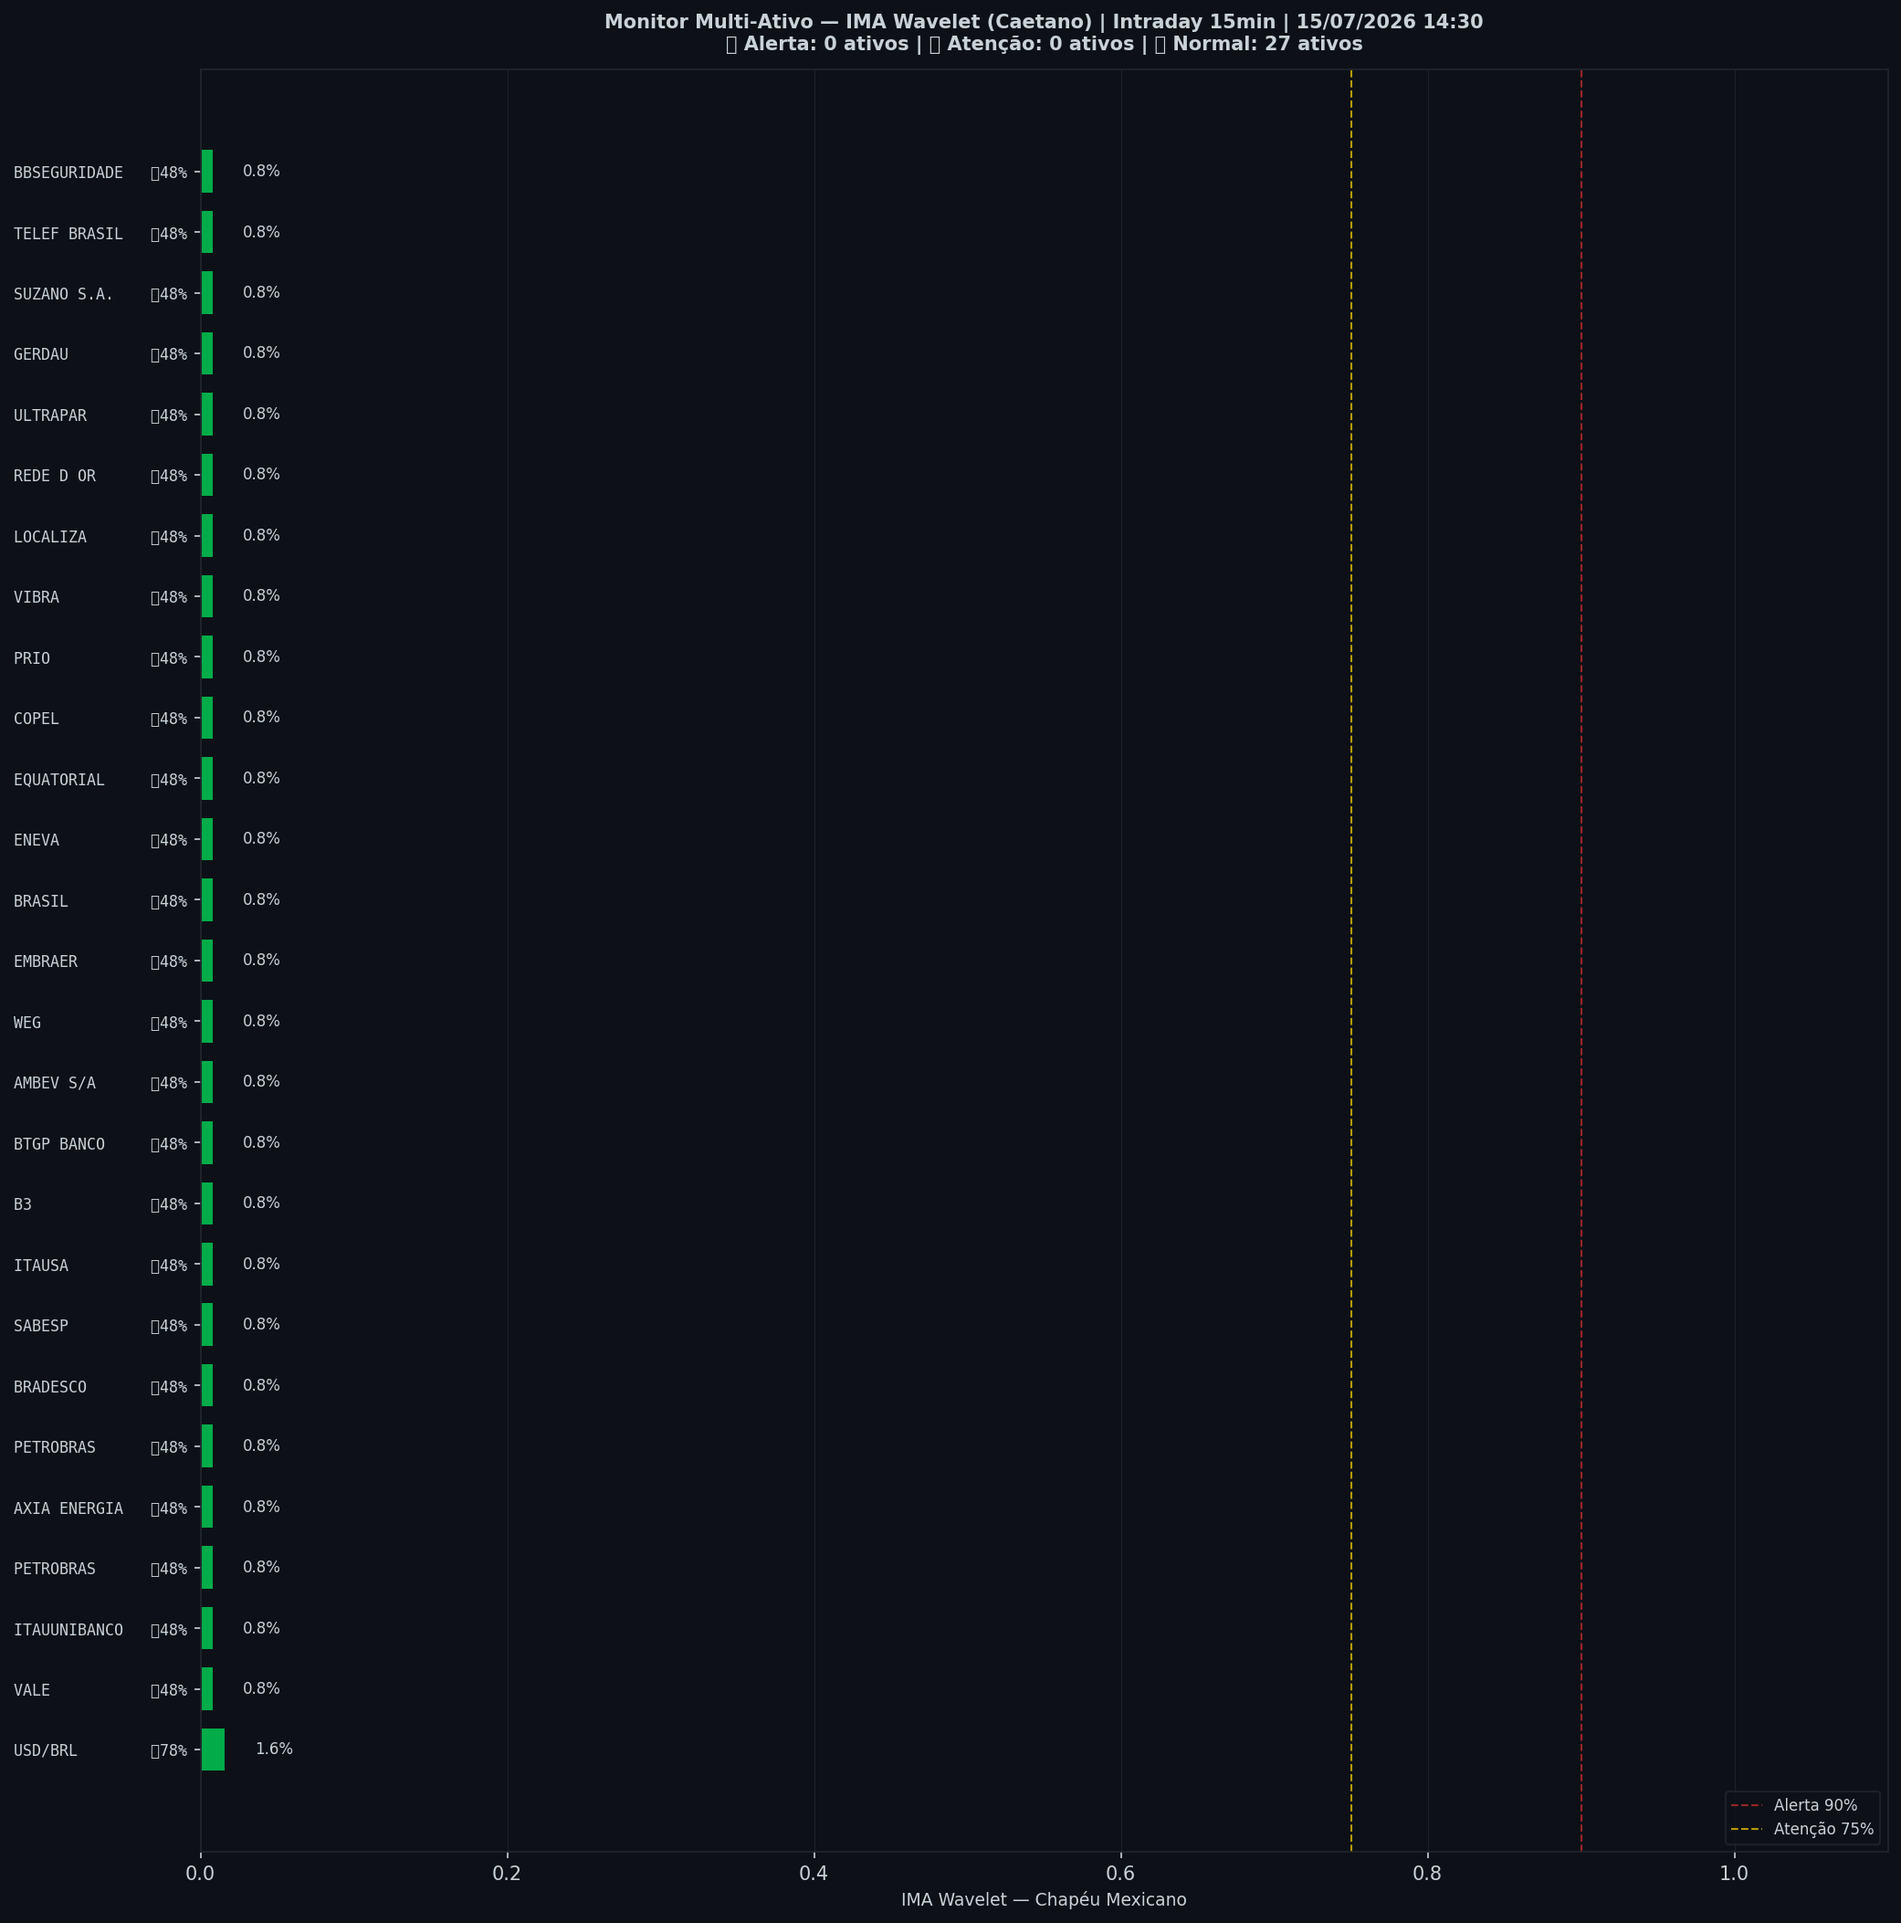
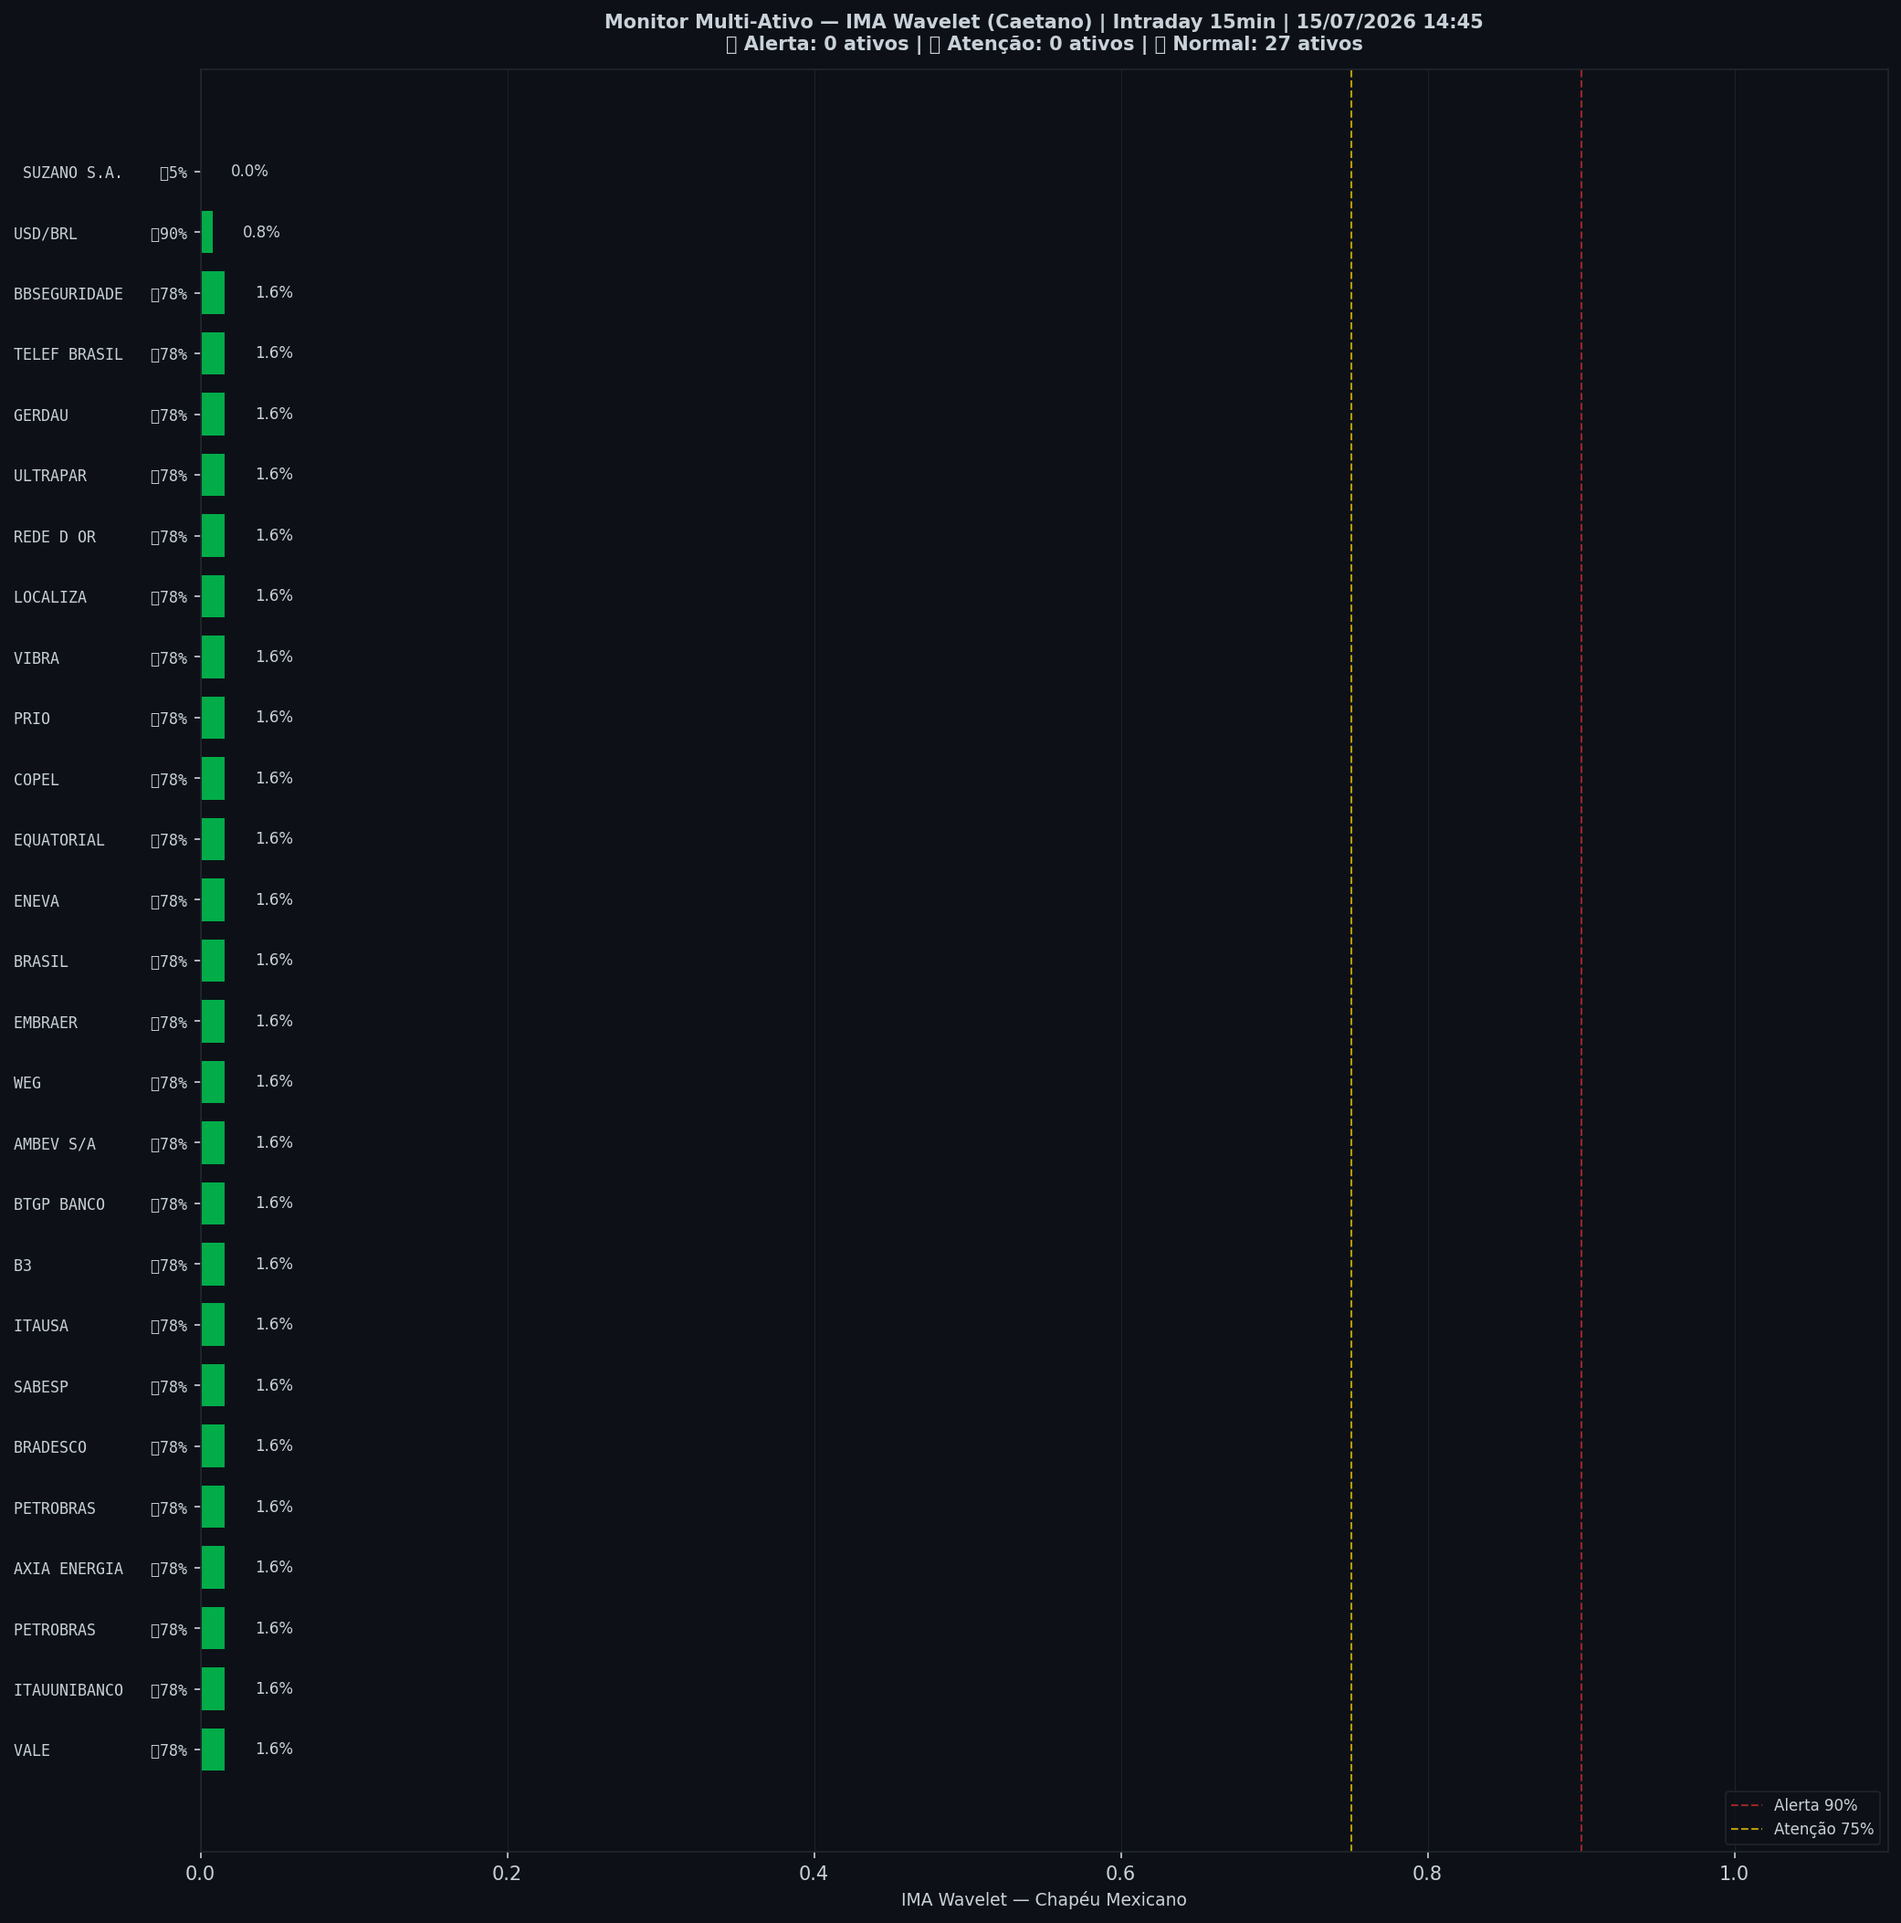
🤖 Auto: Sinal 15/07/2026 14:45

Changed region(s): [[0.0937, 0.1543, 0.1249, 0.8951], [0.0312, 0.8333, 0.0624, 0.8642], [0.0312, 0.0617, 0.0624, 0.0926]]

diff --git a/content/intraday/2026-07-15.md b/content/intraday/2026-07-15.md
@@ -1,20 +1,20 @@
 ---
-title: "🟢 Intraday 15/07/2026 13:45 BRT — VERDE"
+title: "🟢 Intraday 15/07/2026 14:00 BRT — VERDE"
 date: 2026-07-15
 tags: [intraday]
 ---
 
-> [!success] 🟢 **VERDE** — Risco 34% · ▼ -2 p.p. vs leitura anterior
-> `███████░░░░░░░░░░░░░`
+> [!success] 🟢 **VERDE** — Risco 32% · ▼ -2 p.p. vs leitura anterior
+> `██████░░░░░░░░░░░░░░`
 > Mercado sem sinais relevantes de estresse.
 
 
 | Indicador | Valor |
 |---|---|
-| 🔴 ζ Crash — severidade da queda em curso | **34%** |
+| 🔴 ζ Crash — severidade da queda em curso | **32%** |
 | 🔵 ζ Entrada — estrutura de fundo | 0% |
 | 🫧 LPPL DS-Confidence | 0% |
-| 📊 Ibovespa | 175.349 pts |
+| 📊 Ibovespa | 175.443 pts |
 
 ![Gráfico do sinal](../graficos/sinal_intraday.png)
 
@@ -22,6 +22,7 @@ tags: [intraday]
 
 | Data | Zona | Risco | IMA Crash | Entrada | LPPL |
 |---|---|---|---|---|---|
+| 2026-07-15 14:00 | 🟢 VERDE | **32%** | 32% | 0% | 0% |
 | 2026-07-15 13:45 | 🟢 VERDE | **34%** | 34% | 0% | 0% |
 | 2026-07-15 13:30 | 🟢 VERDE | **35%** | 35% | 0% | 0% |
 | 2026-07-15 13:15 | 🟢 VERDE | **39%** | 39% | 0% | 0% |
@@ -51,7 +52,6 @@ tags: [intraday]
 | 2026-07-14 14:15 | 🟢 VERDE | **1%** | 1% | 2% | 0% |
 | 2026-07-14 14:00 | 🟢 VERDE | **0%** | 0% | 5% | 0% |
 | 2026-07-14 13:45 | 🟢 VERDE | **0%** | 0% | 8% | 0% |
-| 2026-07-14 13:30 | 🟢 VERDE | **0%** | 0% | 12% | 0% |
 
 ## Monitor Multi-Ativo
 
@@ -59,37 +59,37 @@ tags: [intraday]
 
 | Zona | Ativo | Setor | IMA Crash | IMA Entrada |
 |---|---|---|---|---|
-| 🟢 | **USD/BRL** | Câmbio | 1.6% | 78.1% |
-| 🟢 | **VALE** | Mineração | 0.8% | 48.4% |
-| 🟢 | **ITAUUNIBANCO** | Financeiro | 0.8% | 48.4% |
-| 🟢 | **PETROBRAS** | Petróleo | 0.8% | 48.4% |
-| 🟢 | **AXIA ENERGIA** | Energia | 0.8% | 48.4% |
-| 🟢 | **PETROBRAS** | Petróleo | 0.8% | 48.4% |
-| 🟢 | **BRADESCO** | Financeiro | 0.8% | 48.4% |
-| 🟢 | **SABESP** | Saneamento | 0.8% | 48.4% |
-| 🟢 | **ITAUSA** | Financeiro | 0.8% | 48.4% |
-| 🟢 | **B3** | Financeiro | 0.8% | 48.4% |
-| 🟢 | **BTGP BANCO** | Financeiro | 0.8% | 48.4% |
-| 🟢 | **AMBEV S/A** | Consumo | 0.8% | 48.4% |
-| 🟢 | **WEG** | Industrial | 0.8% | 48.4% |
-| 🟢 | **EMBRAER** | Outros | 0.8% | 48.4% |
-| 🟢 | **BRASIL** | Financeiro | 0.8% | 48.4% |
-| 🟢 | **ENEVA** | Energia | 0.8% | 48.4% |
-| 🟢 | **EQUATORIAL** | Energia | 0.8% | 48.4% |
-| 🟢 | **COPEL** | Energia | 0.8% | 48.4% |
-| 🟢 | **PRIO** | Petróleo | 0.8% | 48.4% |
-| 🟢 | **VIBRA** | Energia | 0.8% | 48.4% |
-| 🟢 | **LOCALIZA** | Aluguel | 0.8% | 48.4% |
-| 🟢 | **REDE D OR** | Saúde | 0.8% | 48.4% |
-| 🟢 | **ULTRAPAR** | Outros | 0.8% | 48.4% |
-| 🟢 | **GERDAU** | Siderurgia | 0.8% | 48.4% |
-| 🟢 | **SUZANO S.A.** | Papel/Celulose | 0.8% | 48.4% |
-| 🟢 | **TELEF BRASIL** | Outros | 0.8% | 48.4% |
-| 🟢 | **BBSEGURIDADE** | Financeiro | 0.8% | 48.4% |
+| 🟢 | **VALE** | Mineração | 1.6% | 78.1% |
+| 🟢 | **ITAUUNIBANCO** | Financeiro | 1.6% | 78.1% |
+| 🟢 | **PETROBRAS** | Petróleo | 1.6% | 78.1% |
+| 🟢 | **AXIA ENERGIA** | Energia | 1.6% | 78.1% |
+| 🟢 | **PETROBRAS** | Petróleo | 1.6% | 78.1% |
+| 🟢 | **BRADESCO** | Financeiro | 1.6% | 78.1% |
+| 🟢 | **SABESP** | Saneamento | 1.6% | 78.1% |
+| 🟢 | **ITAUSA** | Financeiro | 1.6% | 78.1% |
+| 🟢 | **B3** | Financeiro | 1.6% | 78.1% |
+| 🟢 | **BTGP BANCO** | Financeiro | 1.6% | 78.1% |
+| 🟢 | **AMBEV S/A** | Consumo | 1.6% | 78.1% |
+| 🟢 | **WEG** | Industrial | 1.6% | 78.1% |
+| 🟢 | **EMBRAER** | Outros | 1.6% | 78.1% |
+| 🟢 | **BRASIL** | Financeiro | 1.6% | 78.1% |
+| 🟢 | **ENEVA** | Energia | 1.6% | 78.1% |
+| 🟢 | **EQUATORIAL** | Energia | 1.6% | 78.1% |
+| 🟢 | **COPEL** | Energia | 1.6% | 78.1% |
+| 🟢 | **PRIO** | Petróleo | 1.6% | 78.1% |
+| 🟢 | **VIBRA** | Energia | 1.6% | 78.1% |
+| 🟢 | **LOCALIZA** | Aluguel | 1.6% | 78.1% |
+| 🟢 | **REDE D OR** | Saúde | 1.6% | 78.1% |
+| 🟢 | **ULTRAPAR** | Outros | 1.6% | 78.1% |
+| 🟢 | **GERDAU** | Siderurgia | 1.6% | 78.1% |
+| 🟢 | **TELEF BRASIL** | Outros | 1.6% | 78.1% |
+| 🟢 | **BBSEGURIDADE** | Financeiro | 1.6% | 78.1% |
+| 🟢 | **USD/BRL** | Câmbio | 0.8% | 89.8% |
+| 🟢 | **SUZANO S.A.** | Papel/Celulose | 0.0% | 4.7% |
 
 ![Monitor multi-ativo](../graficos/multi_intraday.png)
 
-*Página atualizada em 15/07/2026 14:30 BRT (leitura da barra de 2026-07-15 13:45 BRT).*
+*Página atualizada em 15/07/2026 14:45 BRT (leitura da barra de 2026-07-15 14:00 BRT).*
 
 > [!info]- Como interpretar (clique para expandir)
 > - **ζ Crash**: fração dos coeficientes wavelet acima do corte (Caetano & Yoneyama 2009). Escala absoluta: ζ=0,90 = 90% dos coeficientes anômalos — historicamente, quedas com ζ≥0,90 foram mais fundas e mais longas. **Mede a severidade do movimento em curso, não prevê o início da queda.**

diff --git a/content/index.md b/content/index.md
@@ -8,19 +8,19 @@ tags: [home]
 
 Monitoramento diário e intraday do Ibovespa — **IMA Wavelet** (Prof. Marco Antonio Leonel Caetano, ITA/INSPER) + **LPPL DS-Confidence** (Prof. Didier Sornette, ETH-Zurich).
 
-*Última atualização: 15/07/2026 14:30 BRT · ^BVSP · Intraday 15min · v4*
+*Última atualização: 15/07/2026 14:45 BRT · ^BVSP · Intraday 15min · v4*
 
-> [!success] 🟢 **VERDE** — Risco 34% · ▼ -2 p.p. vs leitura anterior
-> `███████░░░░░░░░░░░░░`
+> [!success] 🟢 **VERDE** — Risco 32% · ▼ -2 p.p. vs leitura anterior
+> `██████░░░░░░░░░░░░░░`
 > Mercado sem sinais relevantes de estresse.
 
 
 | Indicador | Valor |
 |---|---|
-| 🔴 ζ Crash — severidade da queda em curso | **34%** |
+| 🔴 ζ Crash — severidade da queda em curso | **32%** |
 | 🔵 ζ Entrada — estrutura de fundo | 0% |
 | 🫧 LPPL DS-Confidence | 0% |
-| 📊 Ibovespa | 175.349 pts |
+| 📊 Ibovespa | 175.443 pts |
 
 **Multi-ativo:** 0% em tensão (0🔴 0🟡 de 27 ativos)
 
@@ -32,7 +32,7 @@ Monitoramento diário e intraday do Ibovespa — **IMA Wavelet** (Prof. Marco An
 
 | Data | Zona | Risco | IMA | LPPL |
 |---|---|---|---|---|
-| [15 Jul 2026](diario/2026-07-15) | 🟢 VERDE | **34%** | 34% | 0% |
+| [15 Jul 2026](diario/2026-07-15) | 🟢 VERDE | **32%** | 32% | 0% |
 | [14 Jul 2026](diario/2026-07-14) | 🟢 VERDE | **17%** | 17% | 0% |
 
 ## Navegação

diff --git a/content/historico.md b/content/historico.md
@@ -7,6 +7,7 @@ tags: [historico]
 
 | Data | Modo | Zona | Risco | IMA | LPPL |
 |---|---|---|---|---|---|
+| 2026-07-15 14:00 | intraday | 🟢 VERDE | 32% | 32% | 0% |
 | 2026-07-15 13:45 | intraday | 🟢 VERDE | 34% | 34% | 0% |
 | 2026-07-15 13:30 | intraday | 🟢 VERDE | 35% | 35% | 0% |
 | 2026-07-15 13:15 | intraday | 🟢 VERDE | 39% | 39% | 0% |
